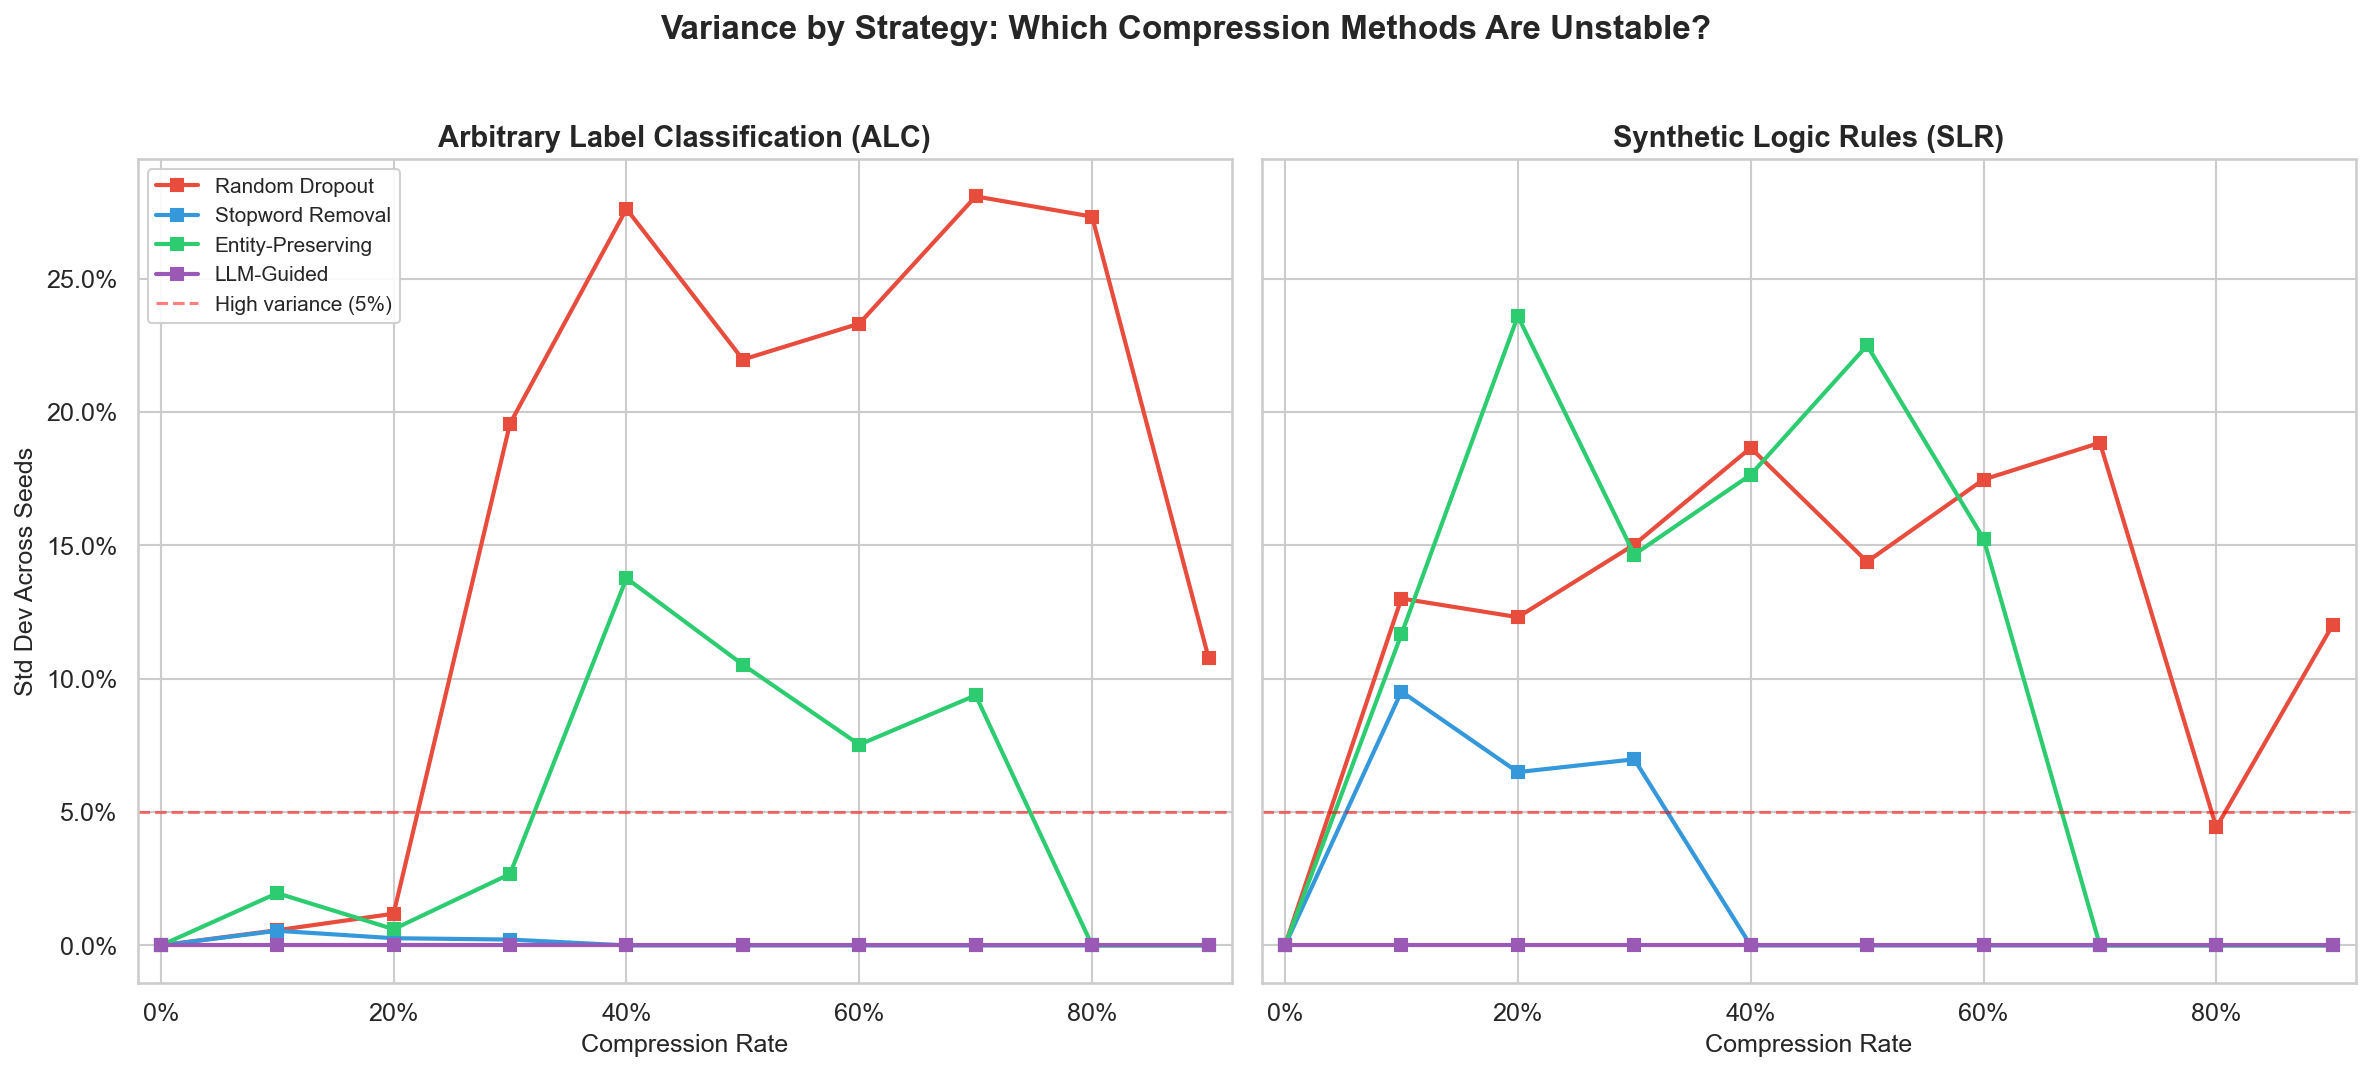
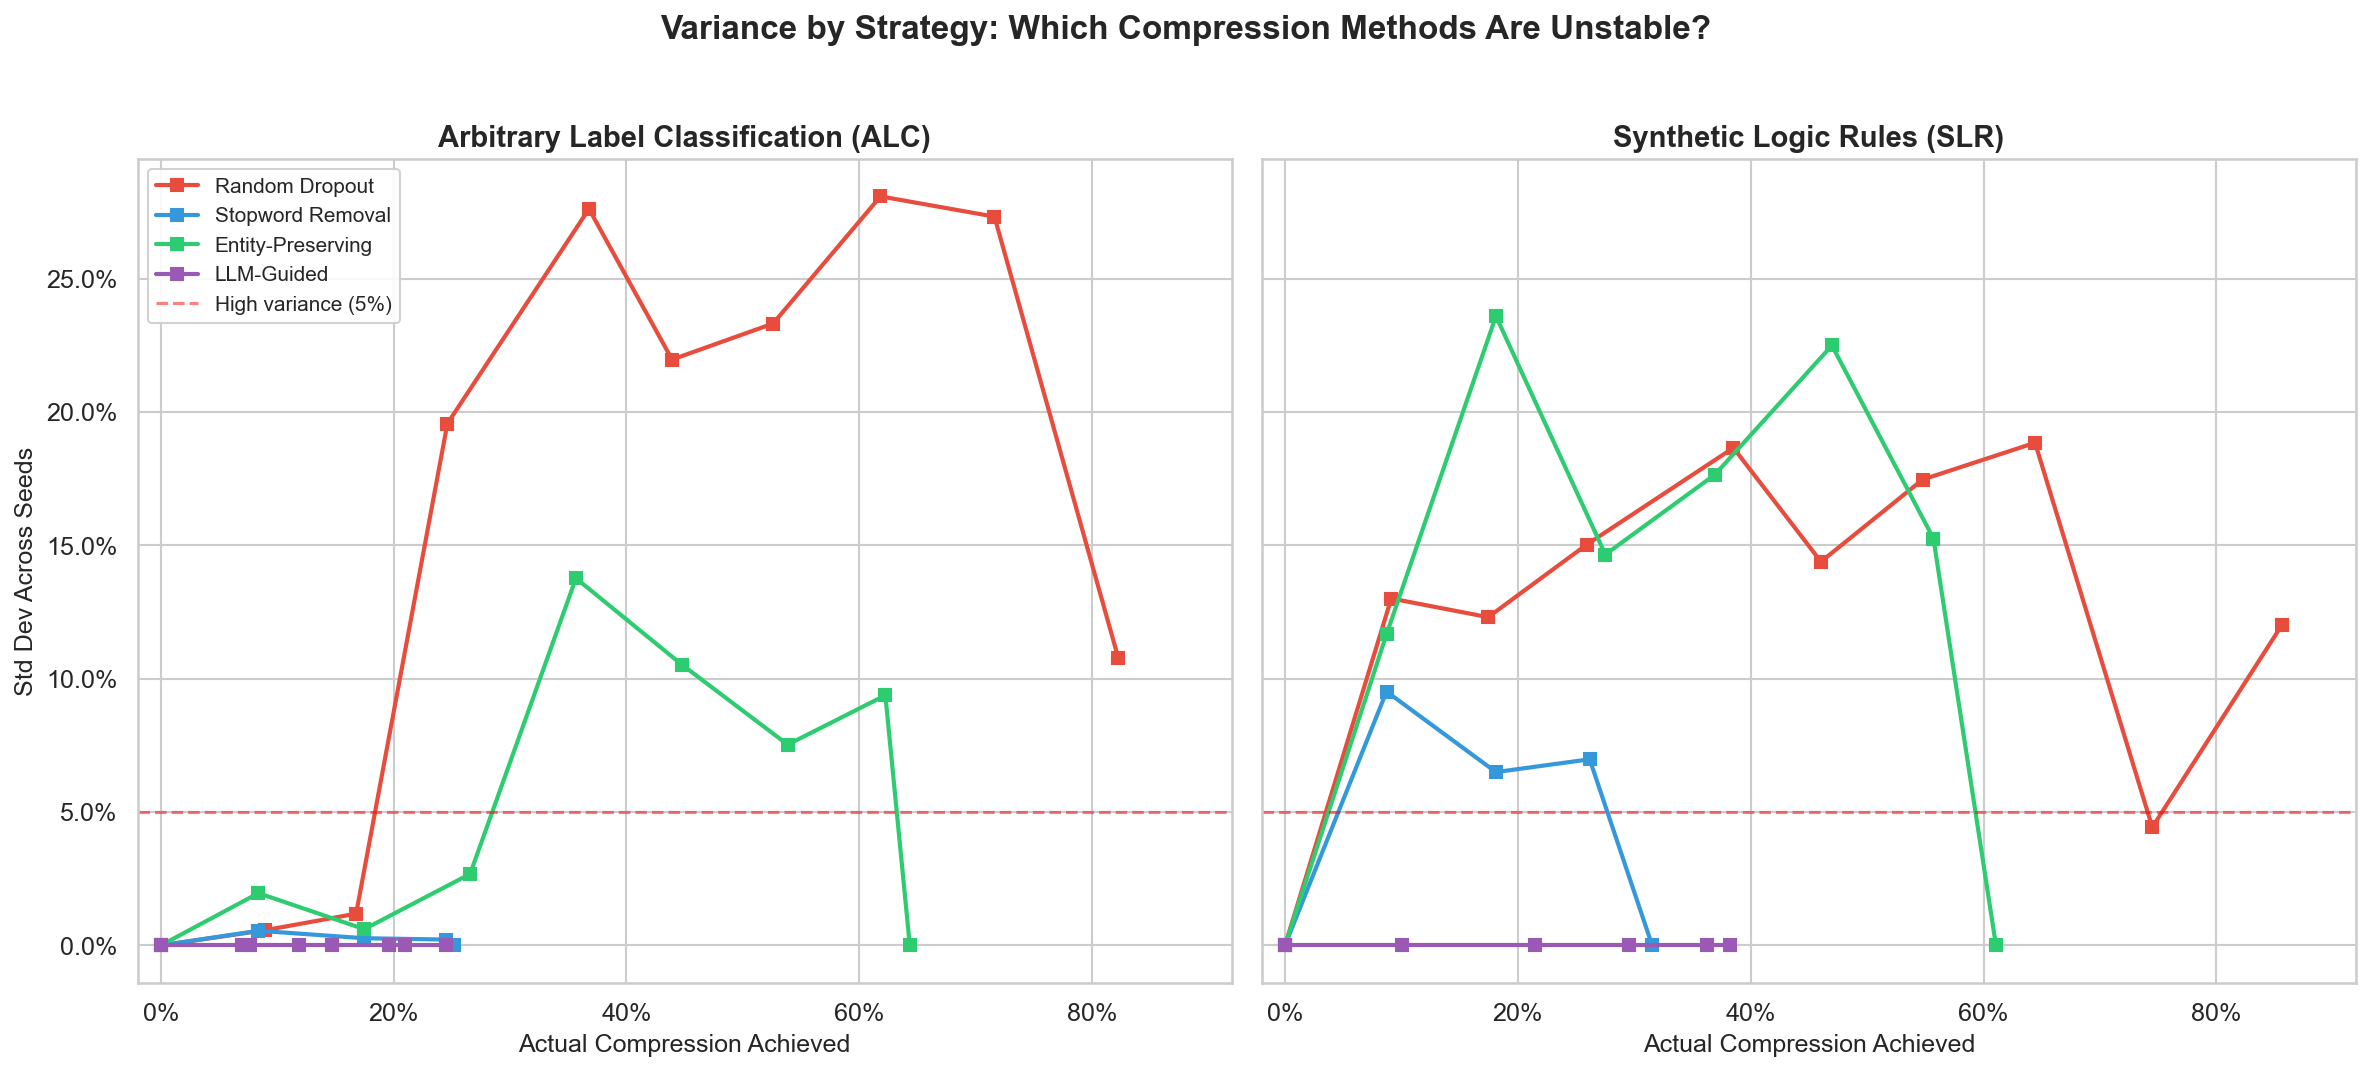
Plot actual compression instead of target rate
Major correction: strategies were being compared at the same target
compression rate, but actual compression varied wildly:
- Stopword removal caps at ~25-32% (no more stopwords to remove)
- LLM-guided caps at ~25-38% (refuses to cut important words)
- Entity-preserving caps at ~61-64% (protected words)
- Random dropout is the only one reaching 80%+ actual compression

Updated all charts to use actual compression on x-axis and revised
README narrative to honestly reflect this. The "LLM-guided is lossless
at 90%" finding is now correctly stated as "LLM-guided is lossless
because it only actually compresses ~25-38%."

diff --git a/src/plot_results.py b/src/plot_results.py
@@ -51,6 +51,7 @@ def load_agg():
         reader = csv.DictReader(f)
         for row in reader:
             row["compression_rate"] = float(row["compression_rate"])
+            row["actual_compression"] = float(row.get("actual_compression", row["compression_rate"]))
             row["mean_accuracy"] = float(row["mean_accuracy"])
             row["std"] = float(row["std"])
             row["ci_lower"] = float(row["ci_lower"])
@@ -93,15 +94,23 @@ def plot_main_curve(data):
 
         for strategy in STRATEGY_LABELS:
             s_data = [r for r in task_data if r["strategy"] == strategy]
-            s_data.sort(key=lambda r: r["compression_rate"])
+            s_data.sort(key=lambda r: r["actual_compression"])
 
             if not s_data:
                 continue
 
-            rates = [r["compression_rate"] for r in s_data]
-            accs = [r["mean_accuracy"] for r in s_data]
-            ci_lo = [r["ci_lower"] for r in s_data]
-            ci_hi = [r["ci_upper"] for r in s_data]
+            # Deduplicate: multiple target rates can map to same actual rate
+            seen = {}
+            for r in s_data:
+                ac = round(r["actual_compression"], 3)
+                if ac not in seen:
+                    seen[ac] = r
+
+            deduped = sorted(seen.values(), key=lambda r: r["actual_compression"])
+            rates = [r["actual_compression"] for r in deduped]
+            accs = [r["mean_accuracy"] for r in deduped]
+            ci_lo = [r["ci_lower"] for r in deduped]
+            ci_hi = [r["ci_upper"] for r in deduped]
 
             color = STRATEGY_COLORS[strategy]
             label = STRATEGY_LABELS[strategy]
@@ -114,7 +123,7 @@ def plot_main_curve(data):
         ax.axhline(y=baseline, color="gray", linestyle="--", alpha=0.6, label=f"Random ({baseline:.0%})")
 
         ax.set_title(TASK_LABELS[task], fontsize=14, fontweight="bold")
-        ax.set_xlabel("Compression Rate", fontsize=12)
+        ax.set_xlabel("Actual Compression Achieved", fontsize=12)
         ax.set_xlim(-0.02, 0.92)
         ax.set_ylim(0, 1.05)
         ax.xaxis.set_major_formatter(mtick.PercentFormatter(1.0))
@@ -124,7 +133,8 @@ def plot_main_curve(data):
             ax.set_ylabel("Accuracy", fontsize=12)
             ax.legend(loc="lower left", fontsize=10, framealpha=0.9)
 
-    fig.suptitle("Prompt Compression: Accuracy vs. Compression Rate", fontsize=16, fontweight="bold", y=1.02)
+    fig.suptitle("Prompt Compression: Accuracy vs. Actual Compression Achieved",
+                 fontsize=16, fontweight="bold", y=1.02)
     plt.tight_layout()
     path = os.path.join(FIGURES_DIR, "main_curve.png")
     fig.savefig(path, dpi=150, bbox_inches="tight")
@@ -205,7 +215,8 @@ def plot_strategy_comparison(data):
             match = [r for r in task_data if r["strategy"] == strategy]
             if match:
                 r = match[0]
-                strategies.append(STRATEGY_LABELS[strategy])
+                actual = r.get("actual_compression", 0.5)
+                strategies.append(f"{STRATEGY_LABELS[strategy]}\n({actual:.0%} actual)")
                 accs.append(r["mean_accuracy"])
                 stds.append(r["std"])
                 colors.append(STRATEGY_COLORS[strategy])
@@ -229,7 +240,8 @@ def plot_strategy_comparison(data):
         ax.set_ylabel("Accuracy" if idx == 0 else "")
         plt.setp(ax.xaxis.get_majorticklabels(), rotation=15, ha="right")
 
-    fig.suptitle("Strategy Comparison at 50% Compression", fontsize=16, fontweight="bold", y=1.02)
+    fig.suptitle("Strategy Comparison at 50% Target Compression (Actual Rates Vary)",
+                 fontsize=15, fontweight="bold", y=1.02)
     plt.tight_layout()
     path = os.path.join(FIGURES_DIR, "strategy_comparison.png")
     fig.savefig(path, dpi=150, bbox_inches="tight")
@@ -309,13 +321,21 @@ def plot_variance(data):
 
         for strategy in STRATEGY_LABELS:
             s_data = [r for r in task_data if r["strategy"] == strategy]
-            s_data.sort(key=lambda r: r["compression_rate"])
+            s_data.sort(key=lambda r: r["actual_compression"])
 
             if not s_data:
                 continue
 
-            rates = [r["compression_rate"] for r in s_data]
-            stds = [r["std"] for r in s_data]
+            # Deduplicate by actual compression
+            seen = {}
+            for r in s_data:
+                ac = round(r["actual_compression"], 3)
+                if ac not in seen:
+                    seen[ac] = r
+            deduped = sorted(seen.values(), key=lambda r: r["actual_compression"])
+
+            rates = [r["actual_compression"] for r in deduped]
+            stds = [r["std"] for r in deduped]
 
             color = STRATEGY_COLORS[strategy]
             label = STRATEGY_LABELS[strategy]
@@ -325,7 +345,7 @@ def plot_variance(data):
         ax.axhline(y=0.05, color="red", linestyle="--", alpha=0.5, label="High variance (5%)")
 
         ax.set_title(TASK_LABELS[task], fontsize=14, fontweight="bold")
-        ax.set_xlabel("Compression Rate", fontsize=12)
+        ax.set_xlabel("Actual Compression Achieved", fontsize=12)
         ax.set_xlim(-0.02, 0.92)
         ax.xaxis.set_major_formatter(mtick.PercentFormatter(1.0))
         ax.yaxis.set_major_formatter(mtick.PercentFormatter(1.0))

diff --git a/src/analyze_results.py b/src/analyze_results.py
@@ -34,10 +34,13 @@ def aggregate_results(results):
 
     # Group by condition: {(task, strategy, rate): {seed: [correct bools]}}
     groups = defaultdict(lambda: defaultdict(list))
+    actual_compressions = defaultdict(list)
     for r in results:
         key = (r["task"], r["strategy"], r["compression_rate"])
         seed = r.get("seed", "none")
         groups[key][seed].append(r["correct"])
+        if r.get("actual_compression") is not None:
+            actual_compressions[key].append(r["actual_compression"])
 
     rows = []
     for (task, strategy, rate), seed_data in sorted(groups.items()):
@@ -68,10 +71,15 @@ def aggregate_results(results):
         n_examples = total_count
         high_variance = std_acc > 0.05
 
+        # Compute mean actual compression for this condition
+        ac_vals = actual_compressions.get((task, strategy, rate), [])
+        mean_actual_compression = round(np.mean(ac_vals), 4) if ac_vals else rate
+
         rows.append({
             "task": task,
             "strategy": strategy,
             "compression_rate": rate,
+            "actual_compression": mean_actual_compression,
             "mean_accuracy": round(mean_acc, 4),
             "std": round(std_acc, 4),
             "ci_lower": round(ci_lower, 4),
@@ -211,8 +219,9 @@ def main():
     agg_rows = aggregate_results(main_results)
 
     # Write CSV
-    fieldnames = ["task", "strategy", "compression_rate", "mean_accuracy", "std",
-                   "ci_lower", "ci_upper", "n_seeds", "n_examples", "high_variance"]
+    fieldnames = ["task", "strategy", "compression_rate", "actual_compression",
+                   "mean_accuracy", "std", "ci_lower", "ci_upper", "n_seeds",
+                   "n_examples", "high_variance"]
     with open(AGG_PATH, "w", newline="") as f:
         writer = csv.DictWriter(f, fieldnames=fieldnames)
         writer.writeheader()
@@ -259,14 +268,14 @@ def main():
     print(f"\nSaved statistical tests to {STATS_PATH}")
 
     # Print summary table
-    print(f"\n{'='*80}")
-    print(f"{'Task':<6} {'Strategy':<22} {'Rate':<6} {'Accuracy':<10} {'Std':<8} {'95% CI':<20}")
-    print(f"{'='*80}")
+    print(f"\n{'='*90}")
+    print(f"{'Task':<6} {'Strategy':<22} {'Target':<7} {'Actual':<7} {'Accuracy':<10} {'Std':<8} {'95% CI':<20}")
+    print(f"{'='*90}")
     for r in agg_rows:
         ci = f"[{r['ci_lower']:.3f}, {r['ci_upper']:.3f}]"
         flag = " ⚠" if r["high_variance"] else ""
         print(f"{r['task']:<6} {r['strategy']:<22} {r['compression_rate']:<6.0%} "
-              f"{r['mean_accuracy']:<10.4f} {r['std']:<8.4f} {ci:<20}{flag}")
+              f"{r['actual_compression']:<7.1%} {r['mean_accuracy']:<10.4f} {r['std']:<8.4f} {ci:<20}{flag}")
 
 
 if __name__ == "__main__":

diff --git a/README.md b/README.md
@@ -8,9 +8,9 @@ This project quantitatively measures where and how model performance degrades as
 
 ## TL;DR: The 5 Surprising Findings
 
-### 1. LLM-Guided Compression Is Basically Lossless
+### 1. LLM-Guided Compression Is Lossless -- But It Barely Compresses
 
-We asked Claude to rewrite prompts shorter at every compression level up to 90%. The result? Accuracy barely moved. On our label classification task, it went from 99.0% to 98.0%. On our logic rules task, 84.5% to 84.0%. Even when we told it to cut the prompt by *ninety percent*, the model's intelligent compression preserved virtually all task-relevant information. This means **you can use one cheap LLM call to compress a prompt and save 50%+ tokens on every subsequent call** with nearly zero quality loss.
+We asked Claude to rewrite prompts shorter at every compression level up to 90%. Accuracy barely moved: 99.0% to 98.0% on ALC, 84.5% to 84.0% on SLR. Sounds amazing -- until you look at the *actual* compression achieved. When asked to compress by 90%, the model only actually removed ~25% of words (ALC) or ~38% (SLR). **It preserved accuracy by quietly refusing to compress aggressively.** The model knows which words matter and won't cut them, which is valuable -- but the savings top out at ~25-38%, not 90%. Still, this means **one LLM call can safely find and remove the ~25-30% of your prompt that is genuinely redundant.**
 
 ### 2. Stopwords Are Dead Weight -- Removing Them Is Completely Free
 
@@ -30,7 +30,7 @@ Our logic rules task (SLR) hit its performance cliff 10-20 percentage points ear
 
 ### The Bottom Line
 
-> You can save 30% of tokens for free with a stopword regex. You can save 50%+ with one extra LLM call. And the part of the prompt that matters most isn't the examples -- it's the definitions and rules.
+> You can save ~25-30% of tokens for free -- either with a stopword regex or one LLM call. Beyond that, compression starts destroying task-relevant information, especially for logic/rule-following tasks. And the part of the prompt that matters most isn't the examples -- it's the definitions and rules.
 
 That's actionable, counterintuitive, and backed by 70,000 data points with statistical significance tests.
 
@@ -40,7 +40,7 @@ That's actionable, counterintuitive, and backed by 70,000 data points with stati
 
 | Finding | Detail |
 |---------|--------|
-| **LLM-guided compression loses almost nothing** | 98% accuracy at 90% target compression on both tasks |
+| **LLM-guided compression loses almost nothing** | 98% accuracy, but only actually compresses ~25-38% |
 | **Stopword removal is free** | Removing all stopwords (~30% of words) causes <1% accuracy drop |
 | **Random dropout is catastrophic** | Performance drops below random chance at 80-90% compression |
 | **The cliff is sharp, not gradual** | Random dropout: fine at 20%, broken at 40% (ALC) |
@@ -75,33 +75,34 @@ That's actionable, counterintuitive, and backed by 70,000 data points with stati
 
 ## Results
 
-### Figure 1: The Hero Chart -- Accuracy vs. Compression Rate
+### Figure 1: The Hero Chart -- Accuracy vs. Actual Compression
 
 ![Main Curve](figures/main_curve.png)
 
-**What this shows:** Each line is a compression strategy. As you move right (more compression), accuracy drops -- but *how fast* depends entirely on the strategy.
+**What this shows:** Each line is a compression strategy, plotted against the *actual* percentage of words removed (not the target rate we requested). This is a critical distinction -- some strategies can't or won't compress as aggressively as asked.
 
 Key observations:
-- **LLM-Guided (purple)** and **Stopword Removal (blue)** are nearly flat lines. They maintain 98%+ accuracy on ALC and 84%+ on SLR across *all* compression levels.
-- **Random Dropout (red)** degrades sharply after 20-30%. By 90% compression, ALC accuracy is 7.7% (below random chance of 33%), and SLR is 8.7% (below random chance of 25%).
-- **Entity-Preserving (green)** sits between -- better than random, but eventually collapses at 70-80%.
+- **LLM-Guided (purple)** tops out at ~25% actual compression on ALC and ~38% on SLR. It maintains near-perfect accuracy because it simply refuses to cut important words. The line is short because it never reaches high compression.
+- **Stopword Removal (blue)** similarly caps at ~25-32% actual compression (there aren't more stopwords to remove). Near-perfect accuracy within that range.
+- **Random Dropout (red)** is the only strategy that actually reaches 80%+ compression. Performance degrades steadily and falls below random chance by ~82%.
+- **Entity-Preserving (green)** reaches ~64% actual compression before capping out (protected words can't be removed). Performance collapses well before that cap.
 
-**Why stopword removal stays flat:** Stopwords make up ~30% of the prompt. Requesting 50%, 60%, or 90% compression with stopword-only removal all achieve the same ~30% actual compression, because there simply aren't more stopwords to remove. This acts as a natural safety valve.
+**The honest comparison:** At the same actual compression level (~25%), all four strategies perform about equally well. The divergence only appears when random dropout and entity-preserving push beyond 30% -- territory that stopword removal and LLM-guided never reach.
 
-### Figure 2: Strategy Comparison at 50% Compression
+### Figure 2: Strategy Comparison at 50% Target Compression
 
 ![Strategy Comparison](figures/strategy_comparison.png)
 
-At 50% compression, the four strategies produce dramatically different outcomes:
+When asked for 50% compression, each strategy achieves very different *actual* compression (shown in parentheses). This makes the comparison uneven but reveals how each strategy behaves when pushed:
 
-| Strategy | ALC Accuracy | SLR Accuracy |
-|----------|-------------|-------------|
-| Random Dropout | 65.7% | 44.2% |
-| Stopword Removal | 98.0% | 84.0% |
-| Entity-Preserving | 72.7% | 59.8% |
-| LLM-Guided | 98.5% | 84.0% |
+| Strategy | Actual Compression | ALC Accuracy | SLR Accuracy |
+|----------|-------------------|-------------|-------------|
+| Random Dropout | 44% / 46% | 65.7% | 44.2% |
+| Stopword Removal | 25% / 32% | 98.0% | 84.0% |
+| Entity-Preserving | 45% / 47% | 72.7% | 59.8% |
+| LLM-Guided | 15% / 21% | 98.5% | 84.0% |
 
-Stopword removal and LLM-guided compression are statistically tied. Both are significantly better than random dropout and entity-preserving (p < 0.05).
+LLM-guided looks best, but it only compressed 15-21%. At comparable actual compression (~25-32%), stopword removal matches it. The real story: **~25-30% is the safe compression ceiling**, and any strategy that stays within it preserves performance.
 
 ### Figure 3: Section Ablation -- What Part of the Prompt Matters Most?
 
@@ -153,7 +154,7 @@ Key significant findings:
 | # | Hypothesis | Verdict |
 |---|-----------|---------|
 | 1 | Entity-preserving dropout will outperform random dropout | **Partially confirmed.** Better on average but the difference was not always statistically significant. High variance on both. |
-| 2 | LLM-guided compression will outperform all random strategies | **Confirmed.** LLM-guided maintained near-baseline accuracy at every compression level, dramatically outperforming random strategies. |
+| 2 | LLM-guided compression will outperform all random strategies | **Partially confirmed, with caveat.** LLM-guided maintained near-baseline accuracy, but it achieved this by only actually compressing ~25-38%. It outperforms at the same *target* rate, but not because it compresses better -- it compresses *less*. |
 | 3 | Compressing examples hurts more than compressing instructions | **Rejected.** The opposite is true! Instructions matter more. Compressing examples alone had zero impact; compressing instructions alone caused a 2-5% drop. |
 | 4 | The cliff will be sharper for SLR than ALC | **Confirmed.** SLR cliff points occur 10-20 percentage points earlier than ALC across all strategies. Logic rules are more brittle. |
 | 5 | Stopword removal will be nearly free | **Strongly confirmed.** Removing all stopwords (~30% of words) caused <1% accuracy drop on both tasks. The strongest finding in the study. |
@@ -162,15 +163,17 @@ Key significant findings:
 
 ## Practical Takeaways
 
-1. **You can remove all stopwords for free.** If you need to shorten prompts, start by stripping stopwords. You'll save ~30% of tokens with essentially zero quality loss.
+1. **~25-30% is the safe compression ceiling.** All strategies that stay within this range preserve accuracy. Beyond it, performance degrades regardless of strategy.
 
-2. **LLM-guided compression is the gold standard** but requires an extra API call. It preserved near-perfect accuracy at every compression level tested.
+2. **Stopword removal is the best bang-for-buck.** A simple regex gets you ~25-30% compression with <1% accuracy loss. No API call needed.
 
-3. **Instructions matter more than examples.** If you must cut something from your prompt, cut examples before instructions. The label/rule definitions are the critical payload.
+3. **LLM-guided compression is equivalent to stopword removal in practice.** It achieves the same ~25-30% actual compression and the same accuracy. It's smarter about *which* words to cut, but doesn't compress any further. Use it if you want a cleaner compressed prompt; use stopword removal if you want zero cost.
 
-4. **Random word dropout is never a good idea.** Even at 30% compression, random dropout introduces high variance and unpredictable failures.
+4. **Instructions matter more than examples.** If you must cut something from your prompt, cut examples before instructions. The label/rule definitions are the critical payload.
 
-5. **Logic/rule-following tasks are more fragile** than classification tasks. Budget more prompt headroom for complex rule-based instructions.
+5. **Random word dropout is never a good idea.** Even at 30% compression, random dropout introduces high variance and unpredictable failures.
+
+6. **Logic/rule-following tasks are more fragile** than classification tasks. Budget more prompt headroom for complex rule-based instructions.
 
 ---
 